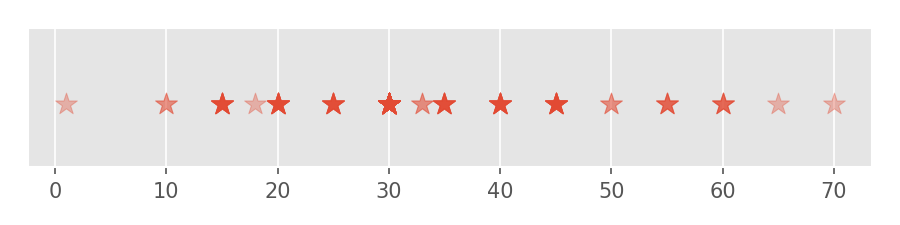
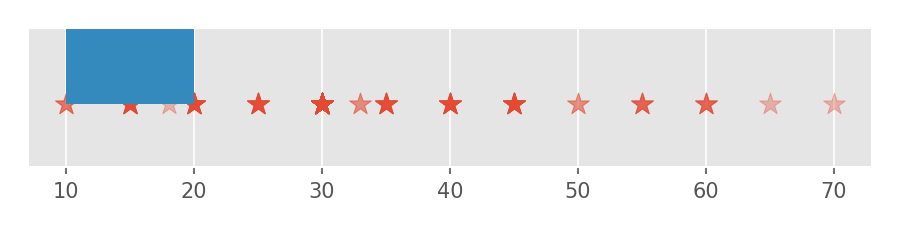
Add rectangle construction plots

diff --git a/static/histograms-and-kdes/meditation.py b/static/histograms-and-kdes/meditation.py
@@ -2,6 +2,7 @@ import numpy
 import pandas
 import matplotlib.pyplot as plt
 import matplotlib
+import matplotlib.patches
 import os
 import pathlib
 
@@ -18,11 +19,38 @@ def main():
 
     plt.figure(figsize=(6, 1.5))
     plt.scatter(x=df.iloc[:, 0], y=numpy.repeat(0.0, len(df)) , marker='*',
-                     alpha=0.35, s=matplotlib.rcParams['lines.markersize']*20)
+                alpha=0.35, s=matplotlib.rcParams['lines.markersize']*20)
     ax = plt.gca()
+    ax.add_patch(matplotlib.patches.Rectangle((10, 0), 10.0, 1.0))
     ax.get_yaxis().set_ticks([])
     plt.tight_layout()
     plt.savefig(to_abs('x-axis.png'), dpi=150)
+    plt.close('all')
+
+    plt.figure(figsize=(6, 1.5))
+    plt.scatter(x=df.iloc[:, 0], y=numpy.repeat(0.0, len(df)) , marker='*',
+                alpha=0.35, s=matplotlib.rcParams['lines.markersize']*20)
+    plt.ylim((-0.01, 0.02))
+    ax = plt.gca()
+    range_count = len(list(i for i in df.iloc[:, 0] if 10.0 <= i < 20.0))
+    ax.add_patch(matplotlib.patches.Rectangle((10.0, 0.0), 10.0, range_count/1290.0, alpha=0.4))
+    # ax.get_yaxis().set_ticks([])
+    plt.tight_layout()
+    plt.savefig(to_abs('histogram-construction-1.png'), dpi=150)
+    plt.close('all')
+
+    histogram_data = {i: len(list(x for x in df.iloc[:, 0] if i <= x < i + 10.0))
+                      for i in range(10, 80, 10)}
+
+    plt.figure(figsize=(6, 2.5))
+    plt.scatter(x=df.iloc[:, 0], y=numpy.repeat(0.0, len(df)), marker='*',
+                alpha=0.35, s=matplotlib.rcParams['lines.markersize'] * 20)
+    plt.ylim((-0.01, 0.06))
+    ax = plt.gca()
+    for x0, h in histogram_data.items():
+        ax.add_patch(matplotlib.patches.Rectangle((x0, 0.0), 10.0, h / 1290.0, alpha=0.4))
+    plt.tight_layout()
+    plt.savefig(to_abs('histogram-construction-2.png'), dpi=150)
     plt.close('all')
 
 

diff --git a/content/page/histograms-and-kdes.md b/content/page/histograms-and-kdes.md
@@ -35,10 +35,23 @@ For that I can just sort the data points and plot the values.
 
 {{< figure src="/histograms-and-kdes/x-axis.png" >}}
 
-The problem with this visualization is that many values, like 30, are repeated and
-plotted on top of each other: There is no way to tell how many 30 minutes sessions
-do I have in the data set. 
+The problem with this visualization is that many values are repeated and
+plotted on top of each other: There is no way to tell how many 30 minute sessions
+do I have in the data set. An idea, that leads to the construction of 
+a histogram, is to use the vertical dimension of the plot distiguish between
+regions with different data density. 
 
+Let's divide the data range into intervals: 
 
+    [10, 20), [20, 30), [30, 40), [40, 50), [50, 60), [60, 70), 
 
+For each data point in the first interval `[10, 20)` I put a rectangle
+with area `1/129` (approx. `0.007`) and width 10 on the interval `[10, 20)`. 
+It's like stacking Jenga bricks. Since we have 13 data point in the 
+interval `[10, 20)` the stacked rectangles have the height of approx.
+`0.01`:
+
+{{< figure src="/histograms-and-kdes/histogram-construction-1.png" >}}
+
+{{< figure src="/histograms-and-kdes/histogram-construction-2.png" >}}
 
